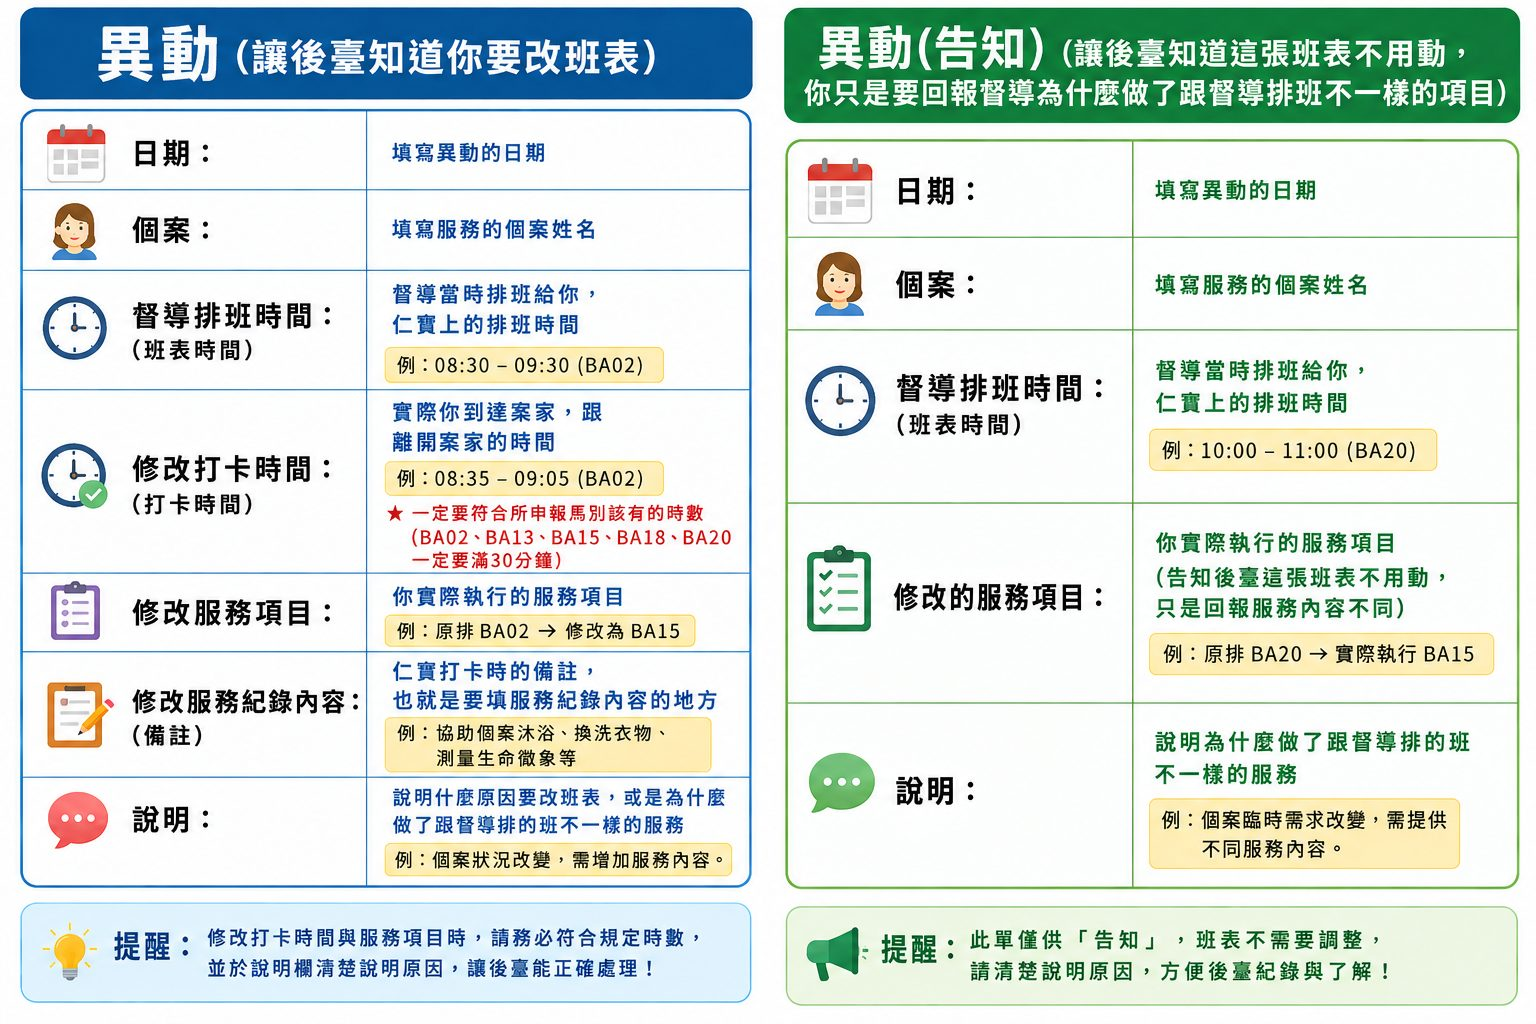
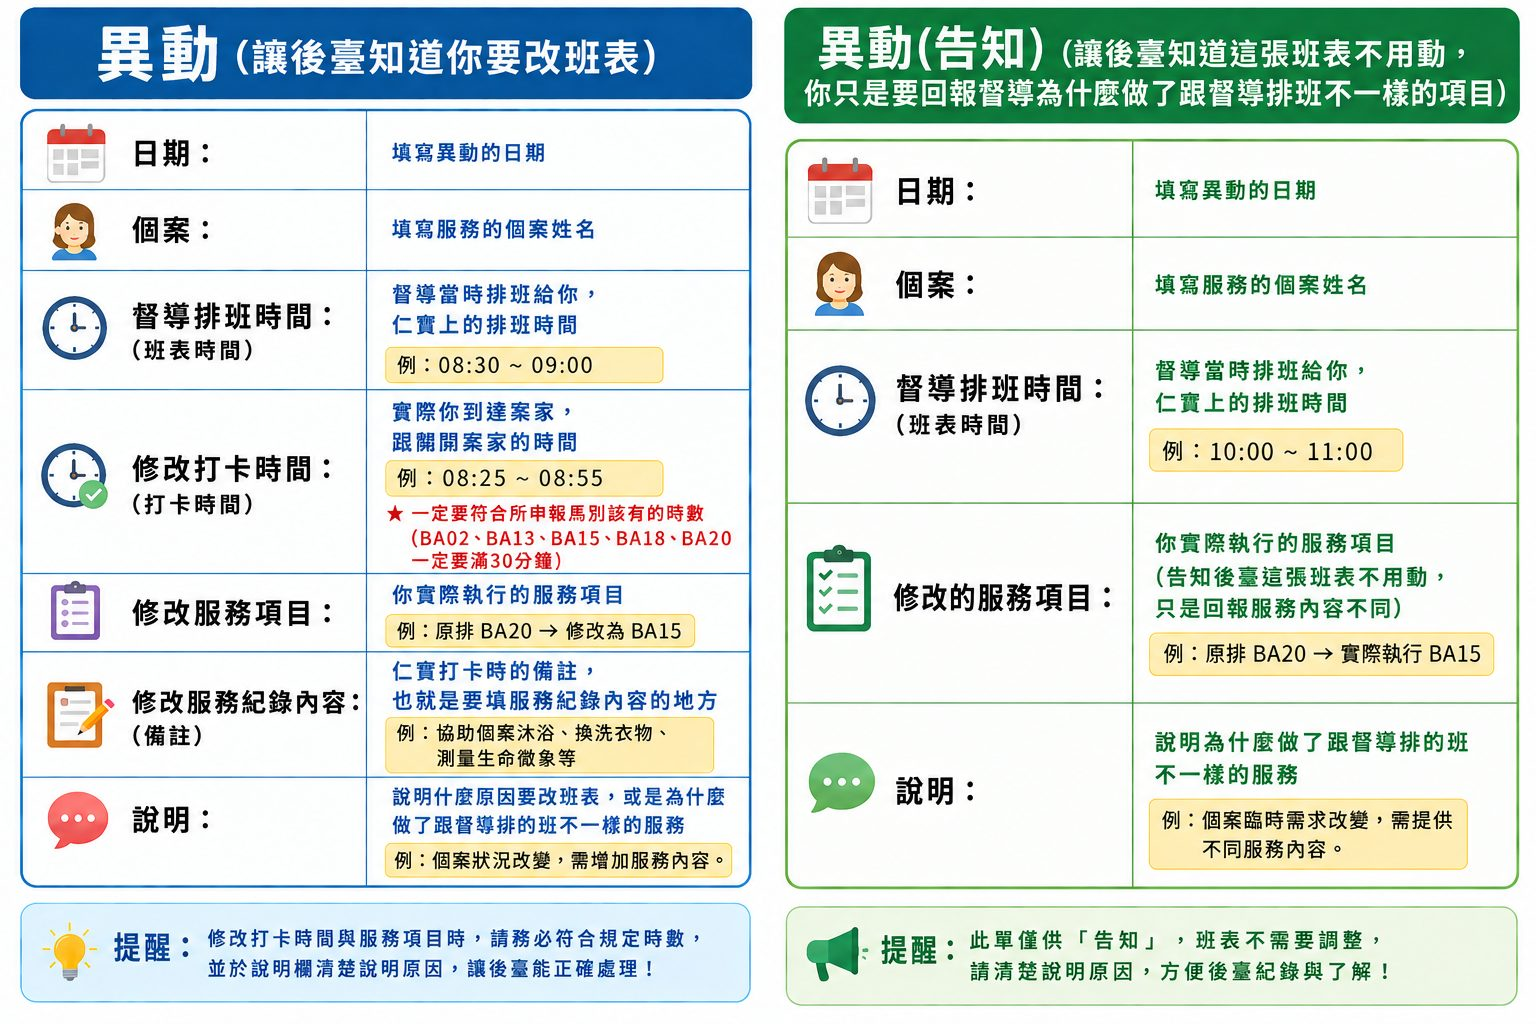
異動單兩張圖換新版（時間後面不帶碼別）

diff --git a/service-guide.html b/service-guide.html
@@ -401,7 +401,7 @@ dl.fields dd{margin-top:2px}
 
     <div class="item">
       <figure class="fig">
-        <img src="form_change_compare.jpg" alt="異動與異動（告知）兩張單子的欄位對照圖" loading="lazy">
+        <img src="form_change_compare.jpg?v=2" alt="異動與異動（告知）兩張單子的欄位對照圖" loading="lazy">
         <figcaption>點圖可以放大</figcaption>
       </figure>
     </div>
@@ -478,7 +478,7 @@ dl.fields dd{margin-top:2px}
     <div class="item">
       <h3><span class="no">範例</span>寫好的樣子</h3>
       <figure class="fig">
-        <img src="form_change_example.jpg" alt="異動單填寫範例圖" loading="lazy">
+        <img src="form_change_example.jpg?v=2" alt="異動單填寫範例圖" loading="lazy">
         <figcaption>點圖可以放大</figcaption>
       </figure>
       <div class="ex-grid">
